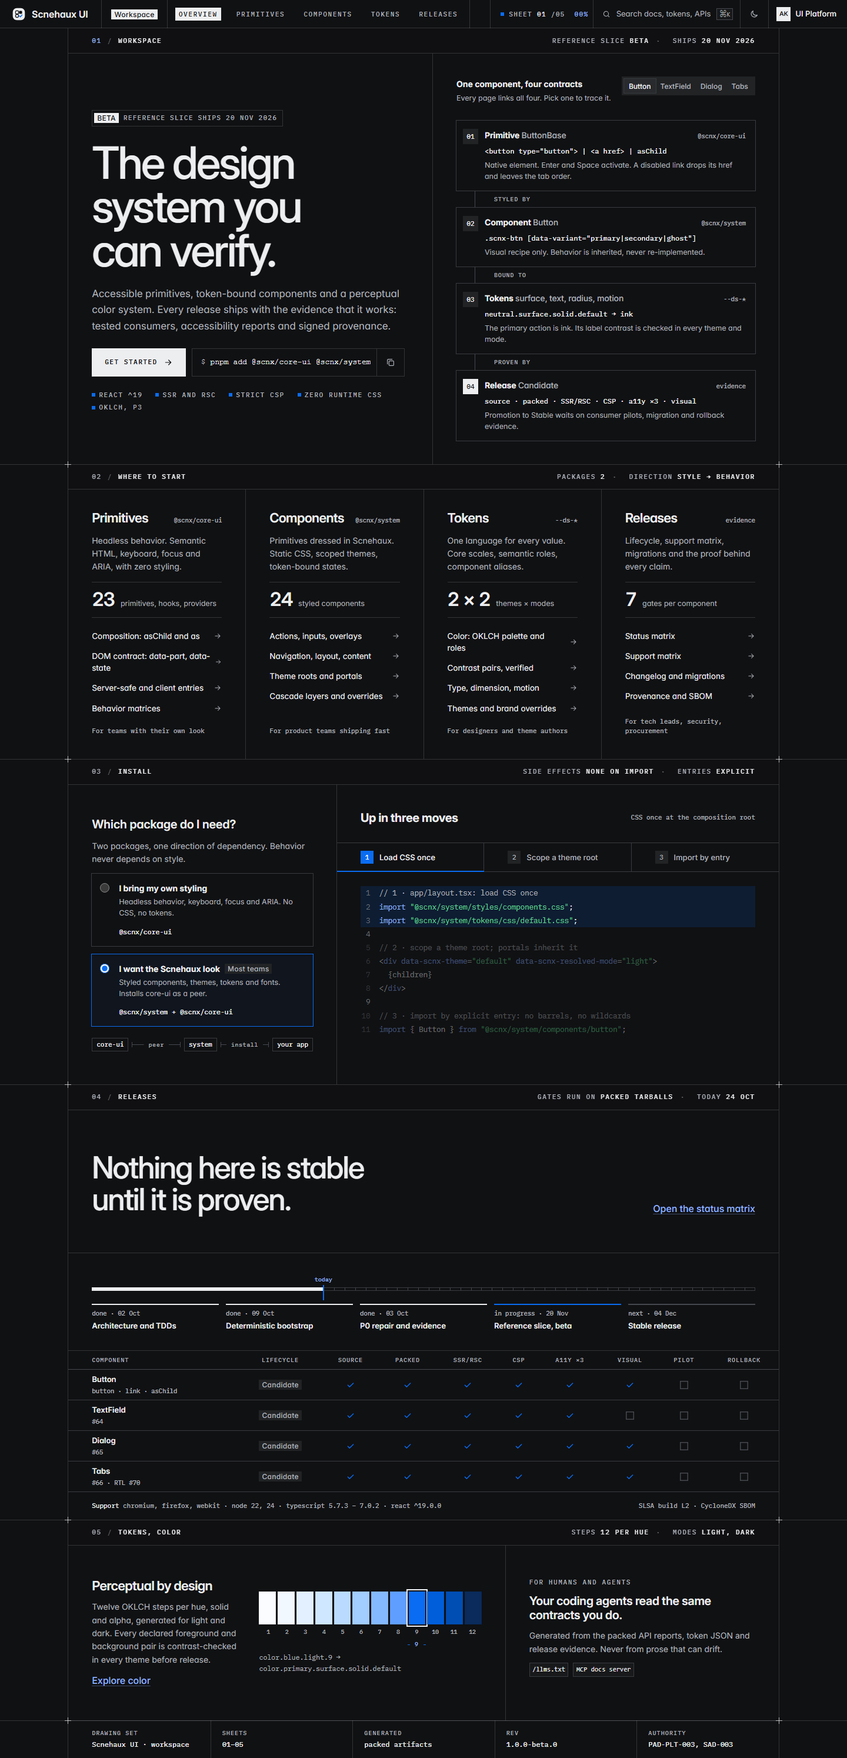
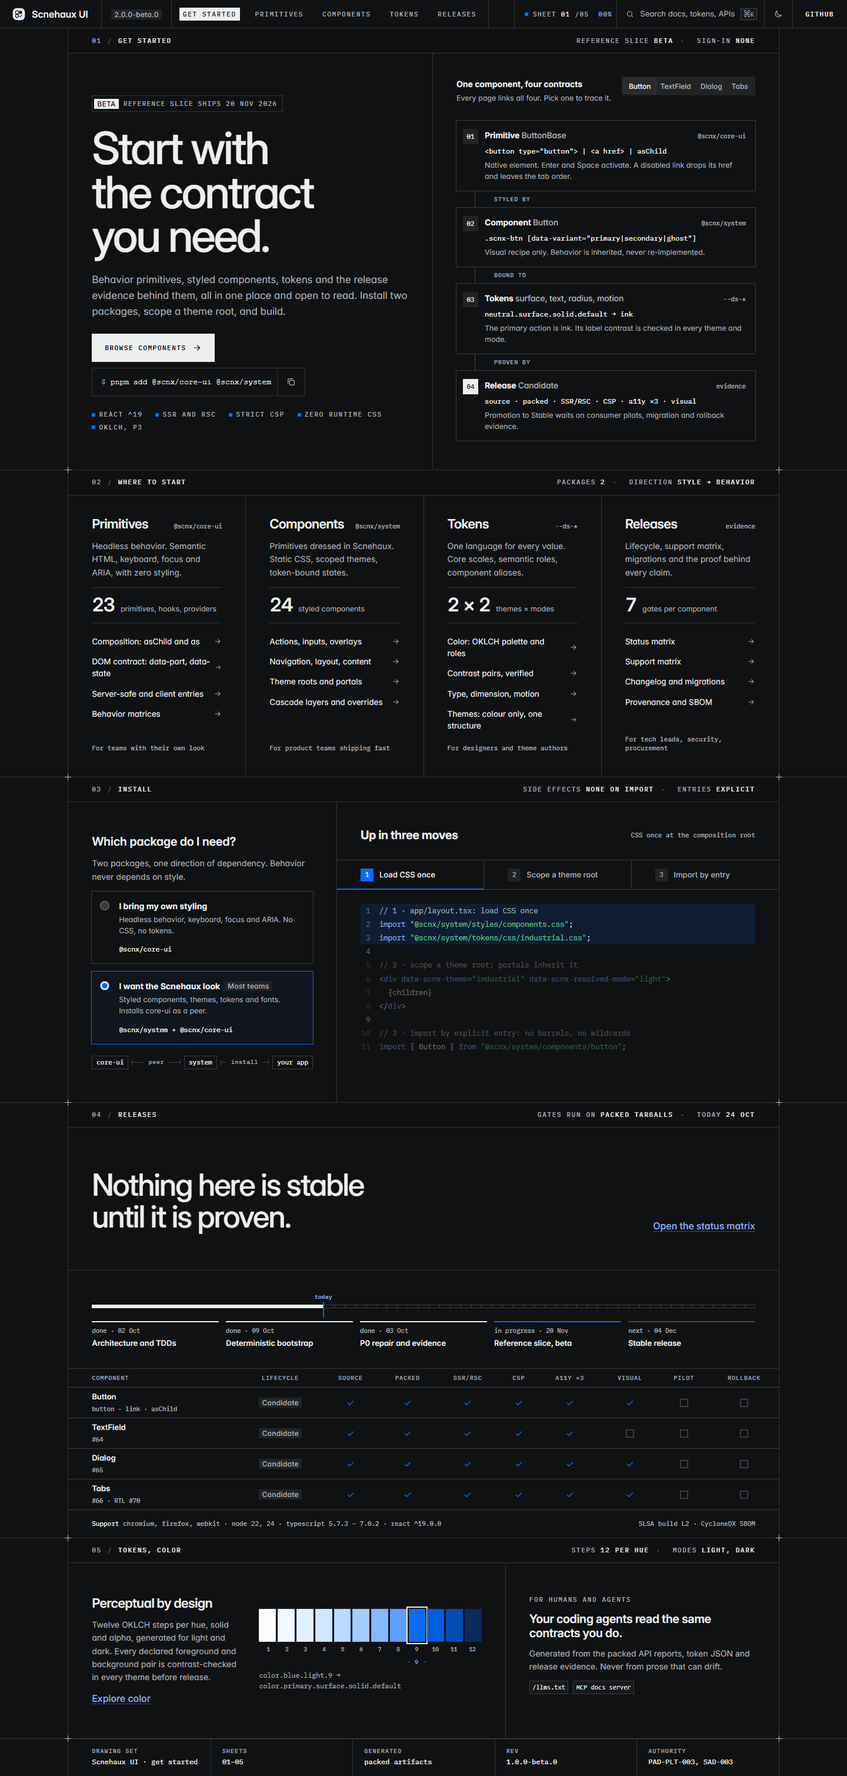
Square: the Workspace board becomes the docs home (get started)
ui-platform-docs has no sign-in (review point 8), so Docs-Home is now the
docs home: "Get started", open to read.

- Nav: the version tag replaces the Workspace badge, "Get started" is the
  current link, and a GitHub call to action replaces the account. Below
  1100px the optional call to action leaves before the search, so the nav
  still fits at 1024px.
- Sheet 01 is "Get started" (ruler title too): a new headline and lede, the
  primary call to action is "Browse components", and the facts read
  "Sign-in: none".
- Install uses the theme id industrial (tokens/css/industrial.css,
  data-scnx-theme="industrial"), as ADR-UIP-VIS-001 revision 2 decides.
  The Tokens card lists "Themes: colour only, one structure".
- Every link to the board follows: the Landing's "Get started" calls to
  action and footer link open the docs home, "Team sign in" is gone, and
  "Team workspace" is "Read the docs". Docs-Button's "Get started" link
  opens the docs home, and its Workspace call to action is GitHub. The
  brand book's nav says "Get started".
- square.css drops the .who cell, which no page uses now.
- The labels follow: the folder README, and the hub card in the root
  README.md and index.html (only that line is committed there).
- Re-rendered the still frames and thumbs.

diff --git a/concepts/docs-instrument-square/Docs-Home.html b/concepts/docs-instrument-square/Docs-Home.html
@@ -3,8 +3,8 @@
 <head>
 <meta charset="utf-8">
 <meta name="viewport" content="width=device-width, initial-scale=1">
-<title>Scnehaux UI · Instrument · Square · Workspace</title>
-<meta name="description" content="Instrument · Square expression of the Scnehaux UI signed-in workspace home.">
+<title>Scnehaux UI · Instrument · Square · Get started</title>
+<meta name="description" content="Instrument · Square expression of the Scnehaux UI docs home: get started, no sign-in.">
 <link rel="icon" href="../../design-system/assets/Logos/scnehaux-mark.svg" type="image/svg+xml">
 <link rel="stylesheet" href="../../design-system/themes/default/tokens.css">
 <link rel="stylesheet" href="../../design-system/components/bundle.css">
@@ -16,13 +16,12 @@
   .search { display: inline-flex; align-items: center; gap: 10px; block-size: 28px; padding-inline: 10px 4px; min-inline-size: 240px; border-radius: var(--ds-dimension-radius-element); box-shadow: inset 0 0 0 1px var(--ix-line); color: var(--ix-muted); font-size: 13px; background: var(--ds-color-neutral-surface-canvas-default); }
   .search svg { inline-size: 14px; block-size: 14px; }
   .search .scnx-kbd { margin-inline-start: auto; }
-  .who { display: inline-flex; align-items: center; gap: 8px; block-size: 28px; padding-inline: 2px 10px; border-radius: var(--ds-dimension-radius-element); font-size: 13px; font-weight: 500; }
-  .who span:first-child { display: grid; place-items: center; inline-size: 24px; block-size: 24px; border-radius: var(--ds-dimension-radius-element); background: var(--ds-color-neutral-surface-solid-default); color: var(--ds-color-neutral-text-contrast-default); font-size: 10.5px; font-weight: 600; }
-  @media (max-width: 1360px) { .who span:last-child { display: none; } }
   /* the strip of cells is wider than Instrument's floating nav: the search drops its label sooner */
   @media (max-width: 1400px) { .search { min-inline-size: 0; } .search span:not(.scnx-kbd) { display: none; } }
+  /* search outranks GitHub: the optional call to action leaves before the nav overflows */
+  @media (max-width: 1100px) { .ix-nav > .sq-cta[data-nav-optional] { display: none; } }
 
-  /* Sheet 01 · Overview */
+  /* Sheet 01 · Get started */
   .over { grid-template-columns: minmax(0, 1fr) minmax(0, 0.95fr); }
   .over-copy { display: flex; flex-direction: column; justify-content: center; gap: 24px; padding: 72px var(--sq-pad) 64px; }
   .over .ix-display { font-size: clamp(2.75rem, 5.4vw, 4.75rem); }
@@ -162,10 +161,10 @@
 <div class="ix-page">
   <div class="ix-wrap ix-nav-shell">
     <header class="ix-nav">
-      <a class="ix-brand" href="#top"><svg width="24" height="24" aria-hidden="true"><use href="#i-mark"/></svg>Scnehaux UI</a>
-      <span class="sq-nav-tag"><span class="scnx-badge" data-scheme="neutral" data-emphasis="solid" data-size="small">Workspace</span></span>
+      <a class="ix-brand" href="Docs-Landing.html"><svg width="24" height="24" aria-hidden="true"><use href="#i-mark"/></svg>Scnehaux UI</a>
+      <span class="sq-nav-tag"><span class="scnx-badge" data-scheme="neutral" data-emphasis="subtle" data-size="small">2.0.0-beta.0</span></span>
       <ul class="ix-nav-links">
-        <li><a href="#" aria-current="page">Overview</a></li>
+        <li><a href="#top" aria-current="page">Get started</a></li>
         <li><a href="#">Primitives</a></li>
         <li><a href="Docs-Button.html">Components</a></li>
         <li><a href="#">Tokens</a></li>
@@ -175,25 +174,25 @@
       <span class="ix-sheet-readout" data-sheet-readout aria-hidden="true"><i></i>Sheet <b>01</b>/05</span>
       <span class="search" role="search"><svg aria-hidden="true"><use href="#i-search"/></svg><span>Search docs, tokens, APIs</span><kbd class="scnx-kbd">⌘K</kbd></span>
       <button class="ix-mode" type="button" data-mode-toggle><svg class="sun" aria-hidden="true"><use href="#i-sun"/></svg><svg class="moon" aria-hidden="true"><use href="#i-moon"/></svg></button>
-      <span class="who" data-nav-optional><span>AK</span><span>UI Platform</span></span>
+      <a class="sq-cta" data-variant="ghost" href="#" data-nav-optional>GitHub</a>
     </header>
   </div>
 
   <main id="top">
-    <!-- SHEET 01 · Overview -->
-    <section class="ix-wrap" id="overview" data-sheet="Overview" aria-labelledby="o-title">
+    <!-- SHEET 01 · Get started -->
+    <section class="ix-wrap" id="get-started" data-sheet="Get started" aria-labelledby="o-title">
       <div class="ix-sheet-head">
         <span class="ix-sheet-no"><b>01</b></span>
-        <span class="ix-sheet-name">Workspace</span>
-        <dl class="ix-tb"><div><dt>Reference slice</dt><dd>beta</dd></div><div><dt>Ships</dt><dd>20 Nov 2026</dd></div></dl>
+        <span class="ix-sheet-name">Get started</span>
+        <dl class="ix-tb"><div><dt>Reference slice</dt><dd>beta</dd></div><div><dt>Sign-in</dt><dd>none</dd></div></dl>
       </div>
       <div class="over sq-cells">
         <div class="over-copy">
           <span class="ix-chip"><span class="scnx-badge" data-scheme="neutral" data-emphasis="solid" data-size="small">Beta</span>Reference slice ships 20 Nov 2026</span>
-          <h1 class="ix-display" id="o-title">The design system you can verify.</h1>
-          <p class="ix-lede">Accessible primitives, token-bound components and a perceptual color system. Every release ships with the evidence that it works: tested consumers, accessibility reports and signed provenance.</p>
+          <h1 class="ix-display" id="o-title">Start with the contract you need.</h1>
+          <p class="ix-lede">Behavior primitives, styled components, tokens and the release evidence behind them, all in one place and open to read. Install two packages, scope a theme root, and build.</p>
           <div style="display:flex; flex-wrap:wrap; gap:10px; align-items:center">
-            <a class="sq-cta" data-variant="primary" href="Docs-Button.html">Get started<svg aria-hidden="true"><use href="#i-arrow"/></svg></a>
+            <a class="sq-cta" data-variant="primary" href="Docs-Button.html">Browse components<svg aria-hidden="true"><use href="#i-arrow"/></svg></a>
             <span class="ix-install"><code><span class="d">$</span> pnpm add @scnx/core-ui @scnx/system</code><button class="ix-copy" type="button" aria-label="Copy install command" data-copy="pnpm add @scnx/core-ui @scnx/system"><svg aria-hidden="true"><use href="#i-copy"/></svg></button></span>
           </div>
           <ul class="ix-meta"><li>React ^19</li><li>SSR and RSC</li><li>Strict CSP</li><li>Zero runtime CSS</li><li>OKLCH, P3</li></ul>
@@ -250,7 +249,7 @@
           <div class="ccard-top"><h3 class="ix-h3">Tokens</h3><code>--ds-*</code></div>
           <p class="ix-body">One language for every value. Core scales, semantic roles, component aliases.</p>
           <div class="readout"><strong>2 × 2</strong><span>themes × modes</span></div>
-          <ul class="clist"><li><a href="#">Color: OKLCH palette and roles<svg aria-hidden="true"><use href="#i-arrow"/></svg></a></li><li><a href="#">Contrast pairs, verified<svg aria-hidden="true"><use href="#i-arrow"/></svg></a></li><li><a href="#">Type, dimension, motion<svg aria-hidden="true"><use href="#i-arrow"/></svg></a></li><li><a href="#">Themes and brand overrides<svg aria-hidden="true"><use href="#i-arrow"/></svg></a></li></ul>
+          <ul class="clist"><li><a href="#">Color: OKLCH palette and roles<svg aria-hidden="true"><use href="#i-arrow"/></svg></a></li><li><a href="#">Contrast pairs, verified<svg aria-hidden="true"><use href="#i-arrow"/></svg></a></li><li><a href="#">Type, dimension, motion<svg aria-hidden="true"><use href="#i-arrow"/></svg></a></li><li><a href="#">Themes: colour only, one structure<svg aria-hidden="true"><use href="#i-arrow"/></svg></a></li></ul>
           <p class="for">For designers and theme authors</p>
         </article>
         <article class="mat ccard ink" data-theme="dark">
@@ -287,7 +286,7 @@
             <button role="tab" aria-selected="false" data-step="2" tabindex="-1"><span>2</span>Scope a theme root</button>
             <button role="tab" aria-selected="false" data-step="3" tabindex="-1"><span>3</span>Import by entry</button>
           </div>
-<pre id="moves-code" role="tabpanel"><span class="row" data-step="1"><span class="ln">1</span><span class="c">// 1 · app/layout.tsx: load CSS once</span></span><span class="row" data-step="1"><span class="ln">2</span><span class="k">import</span> <span class="s">"@scnx/system/styles/components.css"</span>;</span><span class="row" data-step="1"><span class="ln">3</span><span class="k">import</span> <span class="s">"@scnx/system/tokens/css/default.css"</span>;</span><span class="row" data-step="0"><span class="ln">4</span></span><span class="row" data-step="2"><span class="ln">5</span><span class="c">// 2 · scope a theme root; portals inherit it</span></span><span class="row" data-step="2"><span class="ln">6</span>&lt;<span class="k">div</span> <span class="p">data-scnx-theme</span>=<span class="s">"default"</span> <span class="p">data-scnx-resolved-mode</span>=<span class="s">"light"</span>&gt;</span><span class="row" data-step="2"><span class="ln">7</span>  {children}</span><span class="row" data-step="2"><span class="ln">8</span>&lt;/<span class="k">div</span>&gt;</span><span class="row" data-step="0"><span class="ln">9</span></span><span class="row" data-step="3"><span class="ln">10</span><span class="c">// 3 · import by explicit entry: no barrels, no wildcards</span></span><span class="row" data-step="3"><span class="ln">11</span><span class="k">import</span> { Button } <span class="k">from</span> <span class="s">"@scnx/system/components/button"</span>;</span></pre>
+<pre id="moves-code" role="tabpanel"><span class="row" data-step="1"><span class="ln">1</span><span class="c">// 1 · app/layout.tsx: load CSS once</span></span><span class="row" data-step="1"><span class="ln">2</span><span class="k">import</span> <span class="s">"@scnx/system/styles/components.css"</span>;</span><span class="row" data-step="1"><span class="ln">3</span><span class="k">import</span> <span class="s">"@scnx/system/tokens/css/industrial.css"</span>;</span><span class="row" data-step="0"><span class="ln">4</span></span><span class="row" data-step="2"><span class="ln">5</span><span class="c">// 2 · scope a theme root; portals inherit it</span></span><span class="row" data-step="2"><span class="ln">6</span>&lt;<span class="k">div</span> <span class="p">data-scnx-theme</span>=<span class="s">"industrial"</span> <span class="p">data-scnx-resolved-mode</span>=<span class="s">"light"</span>&gt;</span><span class="row" data-step="2"><span class="ln">7</span>  {children}</span><span class="row" data-step="2"><span class="ln">8</span>&lt;/<span class="k">div</span>&gt;</span><span class="row" data-step="0"><span class="ln">9</span></span><span class="row" data-step="3"><span class="ln">10</span><span class="c">// 3 · import by explicit entry: no barrels, no wildcards</span></span><span class="row" data-step="3"><span class="ln">11</span><span class="k">import</span> { Button } <span class="k">from</span> <span class="s">"@scnx/system/components/button"</span>;</span></pre>
         </div>
       </div>
     </section>
@@ -365,7 +364,7 @@
   <footer class="ix-wrap ix-foot" data-draw>
     <div class="ix-ruler" aria-hidden="true"></div>
     <div class="ix-setblock" style="margin-top:24px" aria-label="Drawing set">
-      <div><span class="k">Drawing set</span><span class="v">Scnehaux UI · workspace</span></div>
+      <div><span class="k">Drawing set</span><span class="v">Scnehaux UI · get started</span></div>
       <div><span class="k">Sheets</span><span class="v">01–05</span></div>
       <div><span class="k">Generated</span><span class="v">packed artifacts</span></div>
       <div><span class="k">Rev</span><span class="v">1.0.0-beta.0</span></div>

diff --git a/concepts/docs-instrument-square/Docs-Landing.html b/concepts/docs-instrument-square/Docs-Landing.html
@@ -285,16 +285,15 @@
       <a class="ix-brand" href="#top"><svg width="24" height="24" aria-hidden="true"><use href="#i-mark"/></svg>Scnehaux UI</a>
       <ul class="ix-nav-links">
         <li><a href="#">Primitives</a></li>
-        <li><a href="#">Components</a></li>
+        <li><a href="Docs-Button.html">Components</a></li>
         <li><a href="#">Tokens</a></li>
-        <li><a href="#">Releases</a></li>
+        <li><a href="Docs-Home.html#releases">Releases</a></li>
       </ul>
       <span class="ix-nav-spacer"></span>
       <span class="ix-sheet-readout" data-sheet-readout aria-hidden="true"><i></i>Sheet <b>01</b>/07</span>
       <button class="ix-mode" type="button" data-mode-toggle><svg class="sun" aria-hidden="true"><use href="#i-sun"/></svg><svg class="moon" aria-hidden="true"><use href="#i-moon"/></svg></button>
       <a class="sq-cta" data-variant="ghost" href="#" data-nav-optional>GitHub</a>
-      <a class="sq-cta" data-variant="secondary" href="Docs-Home.html" data-nav-optional>Team sign in</a>
-      <a class="sq-cta" data-variant="primary" href="Docs-Button.html">Get started</a>
+      <a class="sq-cta" data-variant="primary" href="Docs-Home.html">Get started</a>
     </header>
   </div>
 
@@ -312,7 +311,7 @@
           <h1 class="ix-display" id="hero-title">Build interfaces you can prove<svg class="proof-mark" viewBox="0 0 24 24" fill="none" stroke="currentColor" stroke-width="2.6" stroke-linecap="round" stroke-linejoin="round" role="img" aria-label="."><path d="M5 12.5l4.5 4.5L19 7.5"/></svg></h1>
           <p class="ix-lede">An accessible React design system with perceptual color, isolated multi-brand theming and zero runtime CSS. Every release ships with the evidence that it works.</p>
           <div class="hero-actions">
-            <a class="sq-cta" data-variant="primary" href="Docs-Button.html">Get started<svg aria-hidden="true"><use href="#i-arrow"/></svg></a>
+            <a class="sq-cta" data-variant="primary" href="Docs-Home.html">Get started<svg aria-hidden="true"><use href="#i-arrow"/></svg></a>
             <span class="ix-install"><code><span class="d">$</span> npm i @scnx/system @scnx/core-ui</code><button class="ix-copy" type="button" aria-label="Copy install command" data-copy="npm i @scnx/system @scnx/core-ui"><svg aria-hidden="true"><use href="#i-copy"/></svg></button></span>
           </div>
           <ul class="ix-meta" aria-label="Supported">
@@ -589,7 +588,7 @@
       <div class="mat-panel cta" data-frame data-radius="0">
         <h2 class="ix-display">Ship the interface. Keep the receipts.</h2>
         <p class="ix-lede">Free and open source. Bring your brand, keep your stack, and verify every release you install.</p>
-        <div class="hero-actions"><a class="sq-cta" data-variant="primary" href="Docs-Button.html">Get started</a><a class="sq-cta" data-variant="secondary" href="#">Star on GitHub</a></div>
+        <div class="hero-actions"><a class="sq-cta" data-variant="primary" href="Docs-Home.html">Get started</a><a class="sq-cta" data-variant="secondary" href="#">Star on GitHub</a></div>
       </div>
     </section>
   </main>
@@ -597,8 +596,8 @@
   <footer class="ix-wrap ix-foot" data-draw>
     <div class="ix-ruler" aria-hidden="true"></div>
     <div class="ix-foot-grid">
-      <div><a class="ix-brand" href="#top" style="padding-inline:0"><svg width="24" height="24" aria-hidden="true"><use href="#i-mark"/></svg>Scnehaux UI</a><p class="ix-body" style="margin-top:10px; max-inline-size: 34ch">The design system you can verify. Built in public, released with evidence.</p><p style="margin-top:14px"><a class="sq-cta" data-variant="secondary" href="Docs-Home.html">Team workspace</a></p></div>
-      <nav aria-label="Docs"><h3>Docs</h3><ul><li><a href="#">Get started</a></li><li><a href="#">Primitives</a></li><li><a href="Docs-Button.html">Components</a></li><li><a href="#">Tokens</a></li></ul></nav>
+      <div><a class="ix-brand" href="#top" style="padding-inline:0"><svg width="24" height="24" aria-hidden="true"><use href="#i-mark"/></svg>Scnehaux UI</a><p class="ix-body" style="margin-top:10px; max-inline-size: 34ch">The design system you can verify. Built in public, released with evidence.</p><p style="margin-top:14px"><a class="sq-cta" data-variant="secondary" href="Docs-Home.html">Read the docs</a></p></div>
+      <nav aria-label="Docs"><h3>Docs</h3><ul><li><a href="Docs-Home.html">Get started</a></li><li><a href="#">Primitives</a></li><li><a href="Docs-Button.html">Components</a></li><li><a href="#">Tokens</a></li></ul></nav>
       <nav aria-label="Releases"><h3>Releases</h3><ul><li><a href="#">Status matrix</a></li><li><a href="#">Changelog</a></li><li><a href="#">Support matrix</a></li><li><a href="#">Security</a></li></ul></nav>
       <nav aria-label="Project"><h3>Project</h3><ul><li><a href="#">GitHub</a></li><li><a href="#">Contributing</a></li><li><a href="#">Code of conduct</a></li><li><a href="#">License</a></li></ul></nav>
     </div>

diff --git a/index.html b/index.html
@@ -113,7 +113,7 @@
     ["iam", "IAM", [["IAM-Reachability", "IAM — Reachability"]]],
     ["docs-site", "Docs — public landing, signed-in workspace, component page", [["Docs-Landing", "Public · Landing (global)"], ["Docs-Home", "Signed in · Workspace home"], ["Docs-Button", "Docs · Components / Button"]]],
     ["docs-instrument", "Docs · Instrument — the industrial expression, live (motion, scroll, lines)", [["Docs-Landing", "Instrument · Landing (global)"], ["Docs-Home", "Instrument · Workspace home"], ["Docs-Button", "Instrument · Components / Button"]], { live: true }],
-    ["docs-instrument-square", "Docs · Instrument · Square — one line drawing, ruler scrollbar, live", [["Docs-Landing", "Square · Landing (global)"], ["Docs-Home", "Square · Workspace home"], ["Docs-Button", "Square · Components / Button"], ["Brand-Book", "Square · Brand book"]], { live: true }],
+    ["docs-instrument-square", "Docs · Instrument · Square — one line drawing, ruler scrollbar, live", [["Docs-Landing", "Square · Landing (global)"], ["Docs-Home", "Square · Docs home (get started)"], ["Docs-Button", "Square · Components / Button"], ["Brand-Book", "Square · Brand book"]], { live: true }],
   ];
   const root = document.getElementById("concepts");
   for (const [folder, label, boards, opts = {}] of GROUPS) {

diff --git a/concepts/docs-instrument-square/square.css b/concepts/docs-instrument-square/square.css
@@ -135,7 +135,7 @@ body { background: var(--ix-ground); }
 .sq-cta[data-variant="secondary"] { box-shadow: inset 0 0 0 1px var(--sq-edge); }
 
 /* in the nav a call to action is a cell: the line before it is its only edge */
-.ix-nav > :is(.ix-sheet-readout, .ix-mode, .sq-cta, .search, .who) {
+.ix-nav > :is(.ix-sheet-readout, .ix-mode, .sq-cta, .search) {
   block-size: var(--sq-nav); min-block-size: var(--sq-nav); box-shadow: inset 1px 0 0 var(--sq-line);
 }
 .ix-sheet-readout { padding-inline: 18px; font: 500 11px/1 var(--mono); letter-spacing: 0.12em; text-transform: uppercase; }
@@ -144,7 +144,6 @@ body { background: var(--ix-ground); }
 .ix-mode:hover { background: color-mix(in oklch, var(--ix-text) 6%, transparent); }
 .ix-nav > .sq-cta[data-variant="primary"] { box-shadow: none; }
 .ix-nav .search { padding-inline: 16px 12px; border: 0; background: none; box-shadow: inset 1px 0 0 var(--sq-line); }
-.ix-nav .who { padding-inline: 14px 18px; }
 /* The strip of cells is wider than Instrument's floating nav: the sheet readout (which
    the ruler's own readout repeats) leaves first, so the nav never overflows. */
 @media (max-width: 1240px) { .ix-nav > .ix-sheet-readout { display: none; } }

diff --git a/concepts/docs-instrument-square/Docs-Button.html b/concepts/docs-instrument-square/Docs-Button.html
@@ -228,7 +228,7 @@
       <a class="ix-brand" href="Docs-Landing.html"><svg width="24" height="24" aria-hidden="true"><use href="#i-mark"/></svg>Scnehaux UI</a>
       <span class="sq-nav-tag"><span class="scnx-badge" data-scheme="neutral" data-emphasis="subtle" data-size="small">2.0.0-beta.0</span></span>
       <ul class="ix-nav-links">
-        <li><a href="#">Get started</a></li>
+        <li><a href="Docs-Home.html">Get started</a></li>
         <li><a href="#">Foundations</a></li>
         <li><a href="#" aria-current="page">Components</a></li>
         <li><a href="#">Tokens</a></li>
@@ -237,7 +237,7 @@
       <span class="ix-nav-spacer"></span>
       <span class="ix-sheet-readout" data-sheet-readout aria-hidden="true"><i></i>Sheet <b>01</b>/06</span>
       <button class="ix-mode" type="button" data-mode-toggle><svg class="sun" aria-hidden="true"><use href="#i-sun"/></svg><svg class="moon" aria-hidden="true"><use href="#i-moon"/></svg></button>
-      <a class="sq-cta" data-variant="secondary" href="Docs-Home.html" data-nav-optional>Workspace</a>
+      <a class="sq-cta" data-variant="ghost" href="#" data-nav-optional>GitHub</a>
     </header>
   </div>
 

diff --git a/concepts/docs-instrument-square/Brand-Book.html b/concepts/docs-instrument-square/Brand-Book.html
@@ -103,7 +103,7 @@
       <span class="sq-nav-tag" data-nav-optional><span class="scnx-badge" data-scheme="neutral" data-emphasis="solid" data-size="small">Brand book</span></span>
       <ul class="ix-nav-links">
         <li><a href="Docs-Landing.html">Landing</a></li>
-        <li><a href="Docs-Home.html">Workspace</a></li>
+        <li><a href="Docs-Home.html">Get started</a></li>
         <li><a href="Docs-Button.html">Components</a></li>
         <li><a href="#top" aria-current="page">Brand book</a></li>
       </ul>

diff --git a/README.md b/README.md
@@ -96,7 +96,7 @@ internal consoles keep a separate design.
 | `docs-instrument` | Instrument · Workspace home | `Docs-Home.html` | [`Docs-Home.png`](concepts/docs-instrument/Docs-Home.png) |
 | `docs-instrument` | Instrument · Components / Button | `Docs-Button.html` | [`Docs-Button.png`](concepts/docs-instrument/Docs-Button.png) |
 | `docs-instrument-square` | Square · Landing (global) | `Docs-Landing.html` | [`Docs-Landing.png`](concepts/docs-instrument-square/Docs-Landing.png) |
-| `docs-instrument-square` | Square · Workspace home | `Docs-Home.html` | [`Docs-Home.png`](concepts/docs-instrument-square/Docs-Home.png) |
+| `docs-instrument-square` | Square · Docs home (get started) | `Docs-Home.html` | [`Docs-Home.png`](concepts/docs-instrument-square/Docs-Home.png) |
 | `docs-instrument-square` | Square · Components / Button | `Docs-Button.html` | [`Docs-Button.png`](concepts/docs-instrument-square/Docs-Button.png) |
 | `docs-instrument-square` | Square · Brand book | `Brand-Book.html` | [`Brand-Book.png`](concepts/docs-instrument-square/Brand-Book.png) |
 

diff --git a/concepts/docs-instrument-square/README.md b/concepts/docs-instrument-square/README.md
@@ -20,7 +20,7 @@ drawing. Content, colour roles and Instrument's motion (drawing, typing, counter
 | Board | Page | Image |
 | :-- | :-- | :-- |
 | Public · Landing (global) | [`Docs-Landing.html`](Docs-Landing.html) | [`Docs-Landing.png`](Docs-Landing.png) |
-| Signed in · Workspace home | [`Docs-Home.html`](Docs-Home.html) | [`Docs-Home.png`](Docs-Home.png) |
+| Docs · Home (get started, no sign-in) | [`Docs-Home.html`](Docs-Home.html) | [`Docs-Home.png`](Docs-Home.png) |
 | Docs · Components / Button | [`Docs-Button.html`](Docs-Button.html) | [`Docs-Button.png`](Docs-Button.png) |
 | **Brand book** | [`Brand-Book.html`](Brand-Book.html) | [`Brand-Book.png`](Brand-Book.png) |
 
